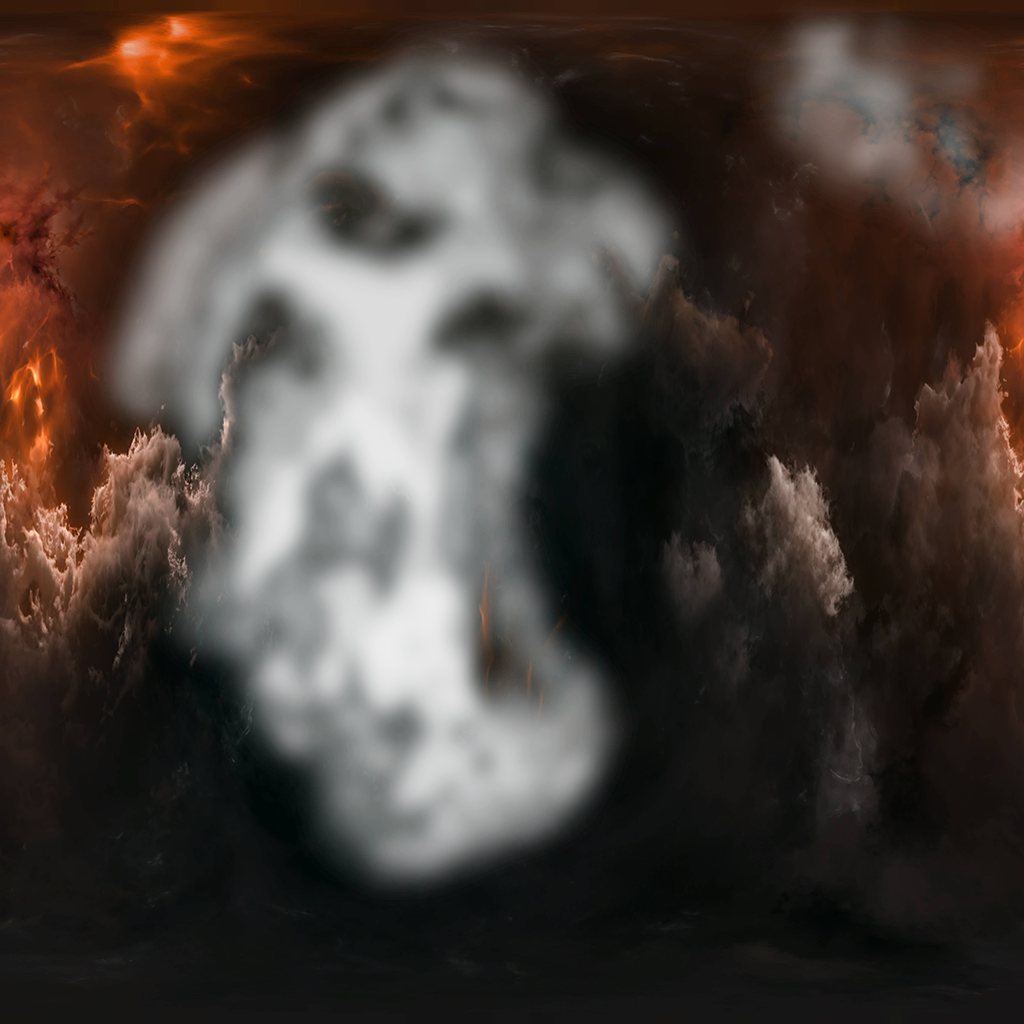
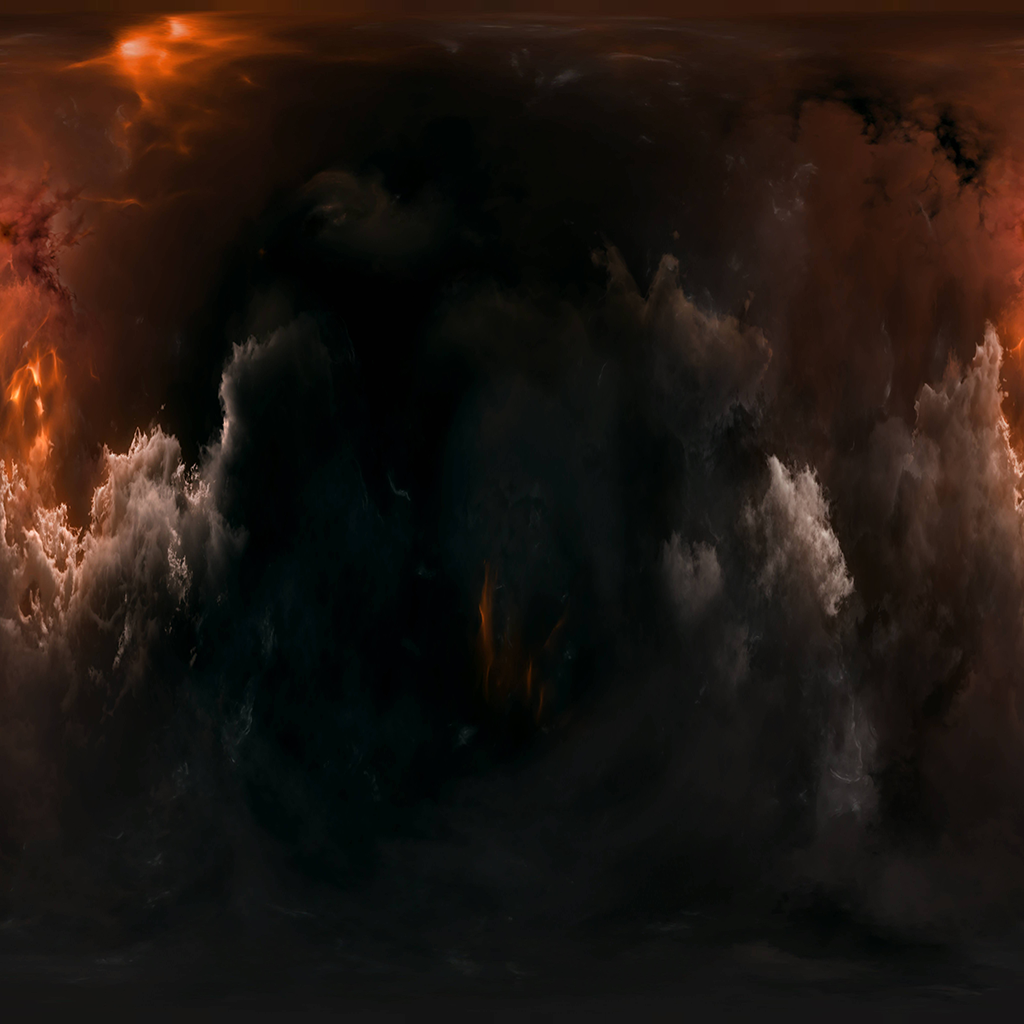
UPDATE
sky spheres working properly!

diff --git a/astrolabio.js b/astrolabio.js
@@ -112,11 +112,11 @@ function initShaders()	{
 
 function initRendering()	{
 	
-	gl.clearColor(0.15,0.15,0.15,1.0);
+	gl.clearColor(0.0,0.0,0.0,1.0);
 	gl.enable(gl.DEPTH_TEST);
 	
 	gl.enable(gl.BLEND);
-	gl.blendFunc(gl.SRC_ALPHA, gl.ONE_MINUS_SRC_ALPHA);
+	gl.blendFunc(gl.ONE, gl.ONE_MINUS_DST_COLOR);
 	
 	setShaderLight();
 	
@@ -315,6 +315,7 @@ function drawModel(modelMatrix, primitive, material) {
 	
 	setShaderMaterial(material);
 	
+	gl.disable(gl.BLEND);	// disables transparency
 	drawSolid(primitive);
 	
 }
@@ -336,6 +337,7 @@ function drawBackground(modelMatrix, primitive, material) {
 	
 	setShaderMaterial(material);
 	
+	gl.enable(gl.BLEND);	// enables transparency
 	drawSolid(primitive);
 	
 }
@@ -386,14 +388,14 @@ function drawScene() {
 	gl.uniform1i(program.depthIndex, 2);			// sets object depth
 	
 	mat4.identity(modelMatrix);
-	mat4.scale(modelMatrix, modelMatrix, [75, 75, 75]);
+	mat4.scale(modelMatrix, modelMatrix, [90, 90, 90]);
 	drawBackground(modelMatrix, exampleSphere, Background);			// Background is a neutral mat for rendering skies
 	
 	// inner sky sphere
 	gl.uniform1i(program.depthIndex, 1);			// sets object depth
 	
 	mat4.identity(modelMatrix);
-	mat4.scale(modelMatrix, modelMatrix, [25, 25, 25]);
+	mat4.scale(modelMatrix, modelMatrix, [40, 40, 40]);
 	mat4.rotateX(modelMatrix, modelMatrix, Math.getRadians(180));	// I want it to start showing the opposite side
 	drawBackground(modelMatrix, exampleSphere, Background);			// Background is a neutral mat for rendering skies
 

diff --git a/astrolabio.html b/astrolabio.html
@@ -10,7 +10,7 @@
   
 	<body>
     
-    <canvas id="myCanvas" width="800" height="800">
+    <canvas id="myCanvas" width="800" height="800" style="background:black">
 		El Navegador no soporta HTML5
     </canvas>
     
@@ -292,14 +292,14 @@
 			
 			if(depth == 0)	{
 			
-				gl_FragColor = texture2D(innerTexture, texCoords) * vec4(phong(n,L,V), 0.9) * 1.8;
+				gl_FragColor = texture2D(innerTexture, texCoords) * vec4(phong(n,L,V), 2.0) * 4.0;
 				
 			}
 			
 			if(depth == 1)	{
 			
-				//gl_FragColor = texture2D(innerTexture, texCoords) * vec4(phong(n,L,V), 0.9) * 1.8;
-				gl_FragColor = texture2D(innerTexture, texCoords);
+				gl_FragColor = texture2D(innerTexture, texCoords) * vec4(phong(n,L,V), 1.8) * 2.4;
+				//gl_FragColor = texture2D(innerTexture, texCoords);
 				
 			}
 			
